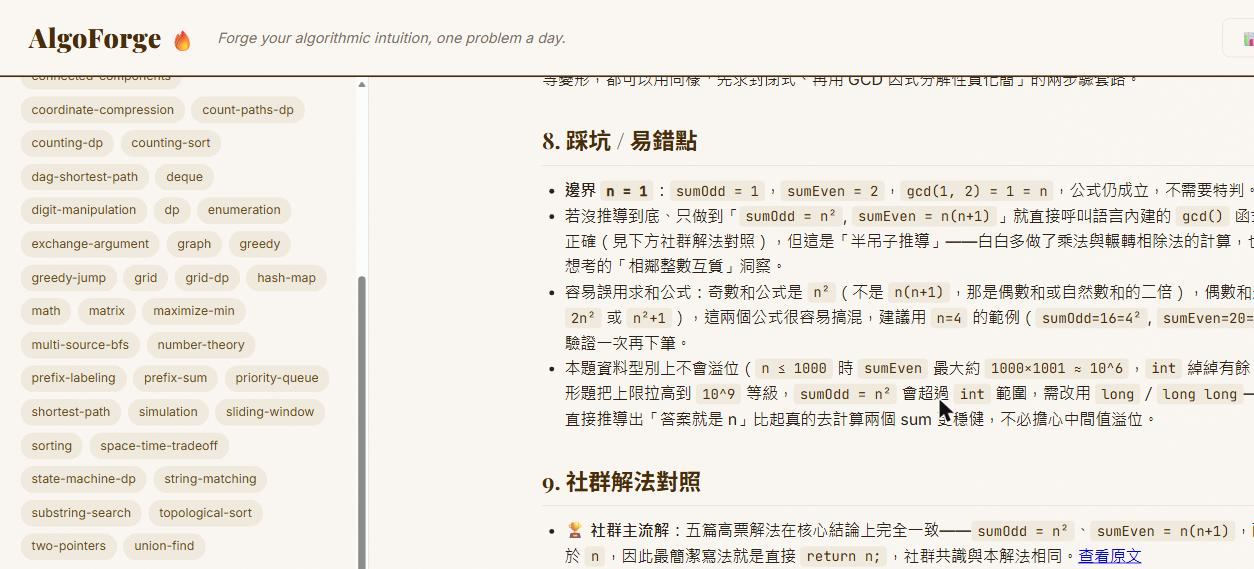
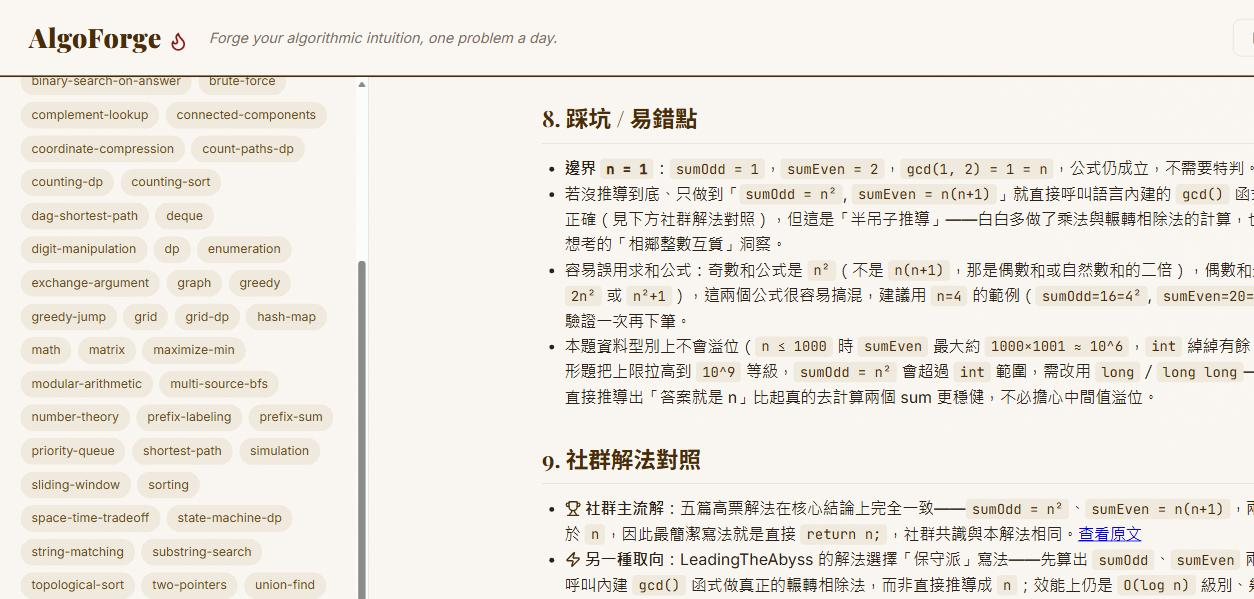
style: emoji 換成 Lucide 線稿圖示（社群解法對照 / 儀表板 / README）
新增 assets/icons/（Lucide, ISC license，套用專案配色），FastAPI 掛載
/assets 靜態路徑，GitHub 上也是 repo-root-relative，兩邊都能正確顯示。

- 社群解法對照三個角色標籤（trophy/zap/lightbulb）
- 儀表板品牌 flame、統計/複習按鈕與標題、複習到期時鐘、複習清空狀態、
  未選題空狀態的 folder 圖示
- README 標題 flame、範例連結 file-text 圖示，展示截圖同步更新
- coach agent prompt 與筆記模板同步改用圖示語法，不再產出 emoji

diff --git a/frontend/app.js b/frontend/app.js
@@ -156,7 +156,7 @@ async function showStats() {
   try {
     const s = await (await fetch(`${API}/api/stats`)).json();
     reader.innerHTML = `<div class="panel">
-      <h1>📊 刷題統計</h1>
+      <h1><img src="/assets/icons/chart-column.svg" width="22" height="22" alt="" style="vertical-align:-4px"> 刷題統計</h1>
       <p class="muted">已累積 <strong>${s.total}</strong> 題。</p>
       ${bars('依難度', s.by_difficulty, 'fill-')}
       ${bars('依狀態', s.by_status, 'fill-')}
@@ -174,7 +174,7 @@ function reviewItem(it, isDue) {
       <div style="font-weight:600">#${it.id} ${it.title}</div>
       <div style="font-size:12px;color:var(--muted)">${(it.patterns || []).join(' · ')}</div>
     </div>
-    <span class="rdate">${isDue ? '⏰ ' : ''}${it.revisit}</span>
+    <span class="rdate">${isDue ? '<img src="/assets/icons/alarm-clock.svg" width="13" height="13" alt="" style="vertical-align:-2px"> ' : ''}${it.revisit}</span>
   </div>`;
 }
 
@@ -185,11 +185,11 @@ async function showReview() {
   try {
     const r = await (await fetch(`${API}/api/review`)).json();
     const dueHtml = r.due.length ? r.due.map(it => reviewItem(it, true)).join('')
-      : '<p class="section-empty">目前沒有到期的複習題 🎉</p>';
+      : '<p class="section-empty"><img src="/assets/icons/circle-check-big.svg" width="14" height="14" alt="" style="vertical-align:-2px"> 目前沒有到期的複習題</p>';
     const upHtml = r.upcoming.length ? r.upcoming.map(it => reviewItem(it, false)).join('')
       : '<p class="section-empty">尚無排定的複習。</p>';
     reader.innerHTML = `<div class="panel">
-      <h1>🔁 複習佇列</h1>
+      <h1><img src="/assets/icons/repeat.svg" width="22" height="22" alt="" style="vertical-align:-4px"> 複習佇列</h1>
       <p class="muted">今天：${r.today}（題目筆記 frontmatter 的 <code>revisit</code> 日期到了就出現在「到期」）</p>
       <h2>到期（該複習了）</h2>${dueHtml}
       <h2>即將複習</h2>${upHtml}

diff --git a/frontend/index.html b/frontend/index.html
@@ -9,10 +9,10 @@
 </head>
 <body>
 <header class="topbar">
-  <div class="brand">AlgoForge <span class="flame">🔥</span></div>
+  <div class="brand">AlgoForge <img class="flame" src="/assets/icons/flame.svg" width="20" height="20" alt="flame"></div>
   <div class="tagline">Forge your algorithmic intuition, one problem a day.</div>
-  <button id="showStats" class="btn btn-ghost">📊 統計</button>
-  <button id="showReview" class="btn btn-ghost">🔁 複習</button>
+  <button id="showStats" class="btn btn-ghost"><img src="/assets/icons/chart-column.svg" width="14" height="14" alt="" style="vertical-align:-2px"> 統計</button>
+  <button id="showReview" class="btn btn-ghost"><img src="/assets/icons/repeat.svg" width="14" height="14" alt="" style="vertical-align:-2px"> 複習</button>
   <button id="fetchDaily" class="btn">抓今日題</button>
 </header>
 
@@ -32,7 +32,7 @@
   <!-- 右欄：題目筆記 -->
   <section class="reader" id="reader">
     <div class="empty-state">
-      <div class="big">🗂</div>
+      <div class="big"><img src="/assets/icons/folder-open.svg" width="56" height="56" alt="folder"></div>
       <p>左側選一題，看完整解題分析。</p>
       <p class="muted">分析由 <code>@algoforge-coach</code> 產出：切入框架 · 核心觀念 · Java/C++ 解法 · 複雜度逐步推導 · 模式歸納。</p>
     </div>

diff --git a/frontend/style.css b/frontend/style.css
@@ -29,7 +29,7 @@ body {
   background: rgba(250,247,242,.95); position: sticky; top: 0; z-index: 20;
 }
 .brand { font-family: 'Playfair Display', serif; font-weight: 900; font-size: 26px; color: var(--brown); letter-spacing: .5px; }
-.flame { font-size: 20px; }
+.flame { vertical-align: -3px; }
 .tagline { color: var(--muted); font-style: italic; font-size: 14px; flex: 1; }
 .btn {
   font-family: inherit; font-weight: 600; font-size: 14px; cursor: pointer;

diff --git a/backend/app/main.py b/backend/app/main.py
@@ -14,6 +14,7 @@ from fastapi.staticfiles import StaticFiles
 from . import leetcode, obsidian, solutions, storage
 
 FRONTEND_DIR = Path(__file__).resolve().parents[2] / "frontend"
+ASSETS_DIR = Path(__file__).resolve().parents[2] / "assets"
 
 app = FastAPI(title="AlgoForge API", version="0.1.0")
 
@@ -110,6 +111,10 @@ async def problem_note(problem_id: str) -> dict:
         raise HTTPException(status_code=404, detail=f"找不到題號 {problem_id} 的筆記")
     return {"id": problem_id, "markdown": note}
 
+
+# 筆記裡的圖示用絕對路徑 /assets/icons/... 引用（GitHub 上也是 repo-root-relative）
+if ASSETS_DIR.exists():
+    app.mount("/assets", StaticFiles(directory=ASSETS_DIR), name="assets")
 
 # 前端儀表板（S3）— 掛在最後，API 路由優先匹配
 if FRONTEND_DIR.exists():

diff --git a/examples/3658-gcd-of-odd-and-even-sums.md b/examples/3658-gcd-of-odd-and-even-sums.md
@@ -146,6 +146,6 @@ public:
 
 ## 9. 社群解法對照
 
-- **🏆 社群主流解**：五篇高票解法在核心結論上完全一致——`sumOdd = n²`、`sumEven = n(n+1)`，兩者的 GCD 恆等於 `n`，因此最簡潔寫法就是直接 `return n;`，社群共識與本解法相同。[查看原文](https://leetcode.com/problems/gcd-of-odd-and-even-sums/solutions/7115082/)
-- **⚡ 另一種取向**：LeadingTheAbyss 的解法選擇「保守派」寫法——先算出 `sumOdd`、`sumEven` 兩個實際數值，再呼叫內建 `gcd()` 函式做真正的輾轉相除法，而非直接推導成 `n`；效能上仍是 `O(log n)` 級別、幾乎沒有差別，但這種寫法更貼近題目字面、對還沒把握「相鄰整數互質」證明的人來說更保險，也留下驗證原始邏輯的痕跡。[查看原文](https://leetcode.com/problems/gcd-of-odd-and-even-sums/solutions/7115094/)
-- **💡 講得最好的一篇**：rosvert 的「Why return n works?」用最精簡的五步驟代數推導（求和公式 → 提出公因子 `n` → 指出 `n` 與 `n+1` 互質 → 結論恆為 `n`），邏輯清楚、沒有廢話，最適合拿來當這題的標準推導範本。[查看原文](https://leetcode.com/problems/gcd-of-odd-and-even-sums/solutions/8397686/)
+- **<img src="/assets/icons/trophy.svg" width="16" height="16" alt="trophy" style="vertical-align:-3px"> 社群主流解**：五篇高票解法在核心結論上完全一致——`sumOdd = n²`、`sumEven = n(n+1)`，兩者的 GCD 恆等於 `n`，因此最簡潔寫法就是直接 `return n;`，社群共識與本解法相同。[查看原文](https://leetcode.com/problems/gcd-of-odd-and-even-sums/solutions/7115082/)
+- **<img src="/assets/icons/zap.svg" width="16" height="16" alt="zap" style="vertical-align:-3px"> 另一種取向**：LeadingTheAbyss 的解法選擇「保守派」寫法——先算出 `sumOdd`、`sumEven` 兩個實際數值，再呼叫內建 `gcd()` 函式做真正的輾轉相除法，而非直接推導成 `n`；效能上仍是 `O(log n)` 級別、幾乎沒有差別，但這種寫法更貼近題目字面、對還沒把握「相鄰整數互質」證明的人來說更保險，也留下驗證原始邏輯的痕跡。[查看原文](https://leetcode.com/problems/gcd-of-odd-and-even-sums/solutions/7115094/)
+- **<img src="/assets/icons/lightbulb.svg" width="16" height="16" alt="lightbulb" style="vertical-align:-3px"> 講得最好的一篇**：rosvert 的「Why return n works?」用最精簡的五步驟代數推導（求和公式 → 提出公因子 `n` → 指出 `n` 與 `n+1` 互質 → 結論恆為 `n`），邏輯清楚、沒有廢話，最適合拿來當這題的標準推導範本。[查看原文](https://leetcode.com/problems/gcd-of-odd-and-even-sums/solutions/8397686/)

diff --git a/.claude/agents/algoforge-coach.md b/.claude/agents/algoforge-coach.md
@@ -49,13 +49,13 @@ python -m app.cli solutions <題號或slug> --top 5
 
 這會印出該題 LeetCode 討論區按讚數排序前 5 篇文章全文（Markdown）。**指令若失敗、逾時、或沒有輸出，直接跳過整個第 9 段（不寫這段標題），不要重試、不要因此中斷分析** —— 這是選讀的參考素材，不是必要產出。
 
-若成功拿到內容，讀完 5 篇後**語意判讀**（不要用字串比對複雜度）並精選出最多 3 則，用固定的角色標籤呈現：
+若成功拿到內容，讀完 5 篇後**語意判讀**（不要用字串比對複雜度）並精選出最多 3 則，用固定的角色標籤呈現。**不要用 emoji，改用專案的圖示檔**（`/assets/icons/`，repo-root-relative，GitHub 與儀表板都吃這個路徑）：
 
-- **🏆 社群主流解**：跟你自己的解法是否一致？若一致，一句話點出「社群共識與本解法相同」
-- **⚡ 另一種取向**：時間或空間有不同 trade-off 的解法（沒有就不寫這則）
-- **💡 講得最好的一篇**：思路講解最清楚、值得推薦去讀的一篇（若某篇同時符合上面兩種角色，不要重複列，另找一篇或省略）
+- **`<img src="/assets/icons/trophy.svg" width="16" height="16" alt="trophy" style="vertical-align:-3px"> 社群主流解`**：跟你自己的解法是否一致？若一致，一句話點出「社群共識與本解法相同」
+- **`<img src="/assets/icons/zap.svg" width="16" height="16" alt="zap" style="vertical-align:-3px"> 另一種取向`**：時間或空間有不同 trade-off 的解法（沒有就不寫這則）
+- **`<img src="/assets/icons/lightbulb.svg" width="16" height="16" alt="lightbulb" style="vertical-align:-3px"> 講得最好的一篇`**：思路講解最清楚、值得推薦去讀的一篇（若某篇同時符合上面兩種角色，不要重複列，另找一篇或省略）
 
-每則格式：`**{emoji} {角色標籤}**：一到兩句話的重點/trade-off。[查看原文]({連結})`。**絕對不要貼原文大段內容或整段程式碼進筆記** —— 只留你自己的一句話講解跟連結，尊重原作者著作權。若 5 篇解法本質上都相同（例如全是同一招 HashMap），只寫一則 🏆，其餘角色不硬湊。
+每則格式：`**{圖示} {角色標籤}**：一到兩句話的重點/trade-off。[查看原文]({連結})`。**絕對不要貼原文大段內容或整段程式碼進筆記** —— 只留你自己的一句話講解跟連結，尊重原作者著作權。若 5 篇解法本質上都相同（例如全是同一招 HashMap），只寫一則 trophy，其餘角色不硬湊。
 
 ## 存檔
 

diff --git a/README.md b/README.md
@@ -1,4 +1,4 @@
-# AlgoForge 🔥
+# AlgoForge <img src="/assets/icons/flame.svg" width="28" height="28" alt="flame" style="vertical-align:-4px">
 
 **English** | [繁體中文](./README.zh-TW.md)
 
@@ -9,7 +9,7 @@ AlgoForge fetches the LeetCode daily problem (or any problem you pick), and a Cl
 
 ![AlgoForge dashboard — problem list with pattern tags on the left, and a rendered teaching analysis with time/space complexity pills on the right](./docs/dashboard.png)
 
-> 📄 See real output in [`examples/`](./examples) — e.g. [Two Sum](./examples/1-two-sum.md), or [GCD of Odd and Even Sums](./examples/3658-gcd-of-odd-and-even-sums.md) for the community solution comparison section in action.
+> <img src="/assets/icons/file-text.svg" width="16" height="16" alt="" style="vertical-align:-3px"> See real output in [`examples/`](./examples) — e.g. [Two Sum](./examples/1-two-sum.md), or [GCD of Odd and Even Sums](./examples/3658-gcd-of-odd-and-even-sums.md) for the community solution comparison section in action.
 
 ![The community solution comparison section rendered in the dashboard — top community pick, an alternative approach, and the clearest write-up, each with a one-line takeaway and a link to the source](./docs/community-solutions.png)
 
@@ -53,6 +53,7 @@ AlgoForge/
 ├── frontend/           # web dashboard (no build step)
 ├── templates/          # the 9-section note template
 ├── examples/           # a curated sample analysis (Two Sum)
+├── assets/icons/       # MIT-licensed line icons (Lucide), served at /assets
 ├── .claude/agents/     # the algoforge-coach agent ⭐
 └── data/problems/      # your own analyses (gitignored)
 ```

diff --git a/README.zh-TW.md b/README.zh-TW.md
@@ -1,4 +1,4 @@
-# AlgoForge 🔥
+# AlgoForge <img src="/assets/icons/flame.svg" width="28" height="28" alt="flame" style="vertical-align:-4px">
 
 [English](./README.md) | **繁體中文**
 
@@ -9,7 +9,7 @@ AlgoForge 會抓 LeetCode 每日一題（或你指定的任何題），由一個
 
 ![AlgoForge 儀表板 —— 左側題庫清單與模式標籤，右側是渲染後的教學式分析與時間／空間複雜度膠囊](./docs/dashboard.png)
 
-> 📄 實際產出見 [`examples/`](./examples)：例如 [Two Sum](./examples/1-two-sum.md)，或看 [GCD of Odd and Even Sums](./examples/3658-gcd-of-odd-and-even-sums.md) 展示第 9 段「社群解法對照」實際效果。
+> <img src="/assets/icons/file-text.svg" width="16" height="16" alt="" style="vertical-align:-3px"> 實際產出見 [`examples/`](./examples)：例如 [Two Sum](./examples/1-two-sum.md)，或看 [GCD of Odd and Even Sums](./examples/3658-gcd-of-odd-and-even-sums.md) 展示第 9 段「社群解法對照」實際效果。
 
 ![儀表板渲染的社群解法對照段落 —— 社群主流解、另一種取向、講得最好的一篇，各附一句話重點與原文連結](./docs/community-solutions.png)
 
@@ -53,6 +53,7 @@ AlgoForge/
 ├── frontend/           # Web 儀表板（無 build step）
 ├── templates/          # 9 段筆記模板
 ├── examples/           # 精選範例分析（Two Sum）
+├── assets/icons/       # MIT 授權線稿圖示（Lucide），由 /assets 提供
 ├── .claude/agents/     # algoforge-coach 解題教練 agent ⭐
 └── data/problems/      # 你自己的解題分析（gitignore）
 ```

diff --git a/assets/icons/README.md b/assets/icons/README.md
@@ -1,0 +1,18 @@
+# 圖示來源
+
+這裡的 SVG 圖示取自 [Lucide](https://lucide.dev)（ISC License），僅改了 `stroke` 顏色套用專案配色（`#4A2C0A` 磚棕 / `#8B1A1A` 暗紅 / `#2D6A4F` 墨綠），未改動圖形本身。
+
+| 檔案 | 用途 |
+|------|------|
+| `trophy.svg` | 社群解法對照 — 社群主流解 |
+| `zap.svg` | 社群解法對照 — 另一種取向 |
+| `lightbulb.svg` | 社群解法對照 — 講得最好的一篇 |
+| `chart-column.svg` | 儀表板 — 統計視圖 |
+| `repeat.svg` | 儀表板 — 複習視圖 |
+| `alarm-clock.svg` | 儀表板 — 複習到期標記 |
+| `circle-check-big.svg` | 儀表板 — 複習清空狀態 |
+| `folder-open.svg` | 儀表板 — 未選題的空狀態 |
+| `flame.svg` | AlgoForge 品牌標誌 |
+| `file-text.svg` | README — 範例文件連結 |
+
+ISC License 全文見 <https://github.com/lucide-icons/lucide/blob/main/LICENSE>。

diff --git a/templates/problem-note.md b/templates/problem-note.md
@@ -60,5 +60,5 @@ status: {solved | review | stuck}
 
 ## 9. 社群解法對照
 <!-- 選讀段落，抓不到就整段省略。從討論區高票解法中精選最多 3 則：
-     🏆 社群主流解 / ⚡ 另一種取向 / 💡 講得最好的一篇
+     社群主流解 / 另一種取向 / 講得最好的一篇（用 /assets/icons/ 圖示，不用 emoji）
      每則只留一兩句話重點 + 原文連結，不貼原文全文 -->
